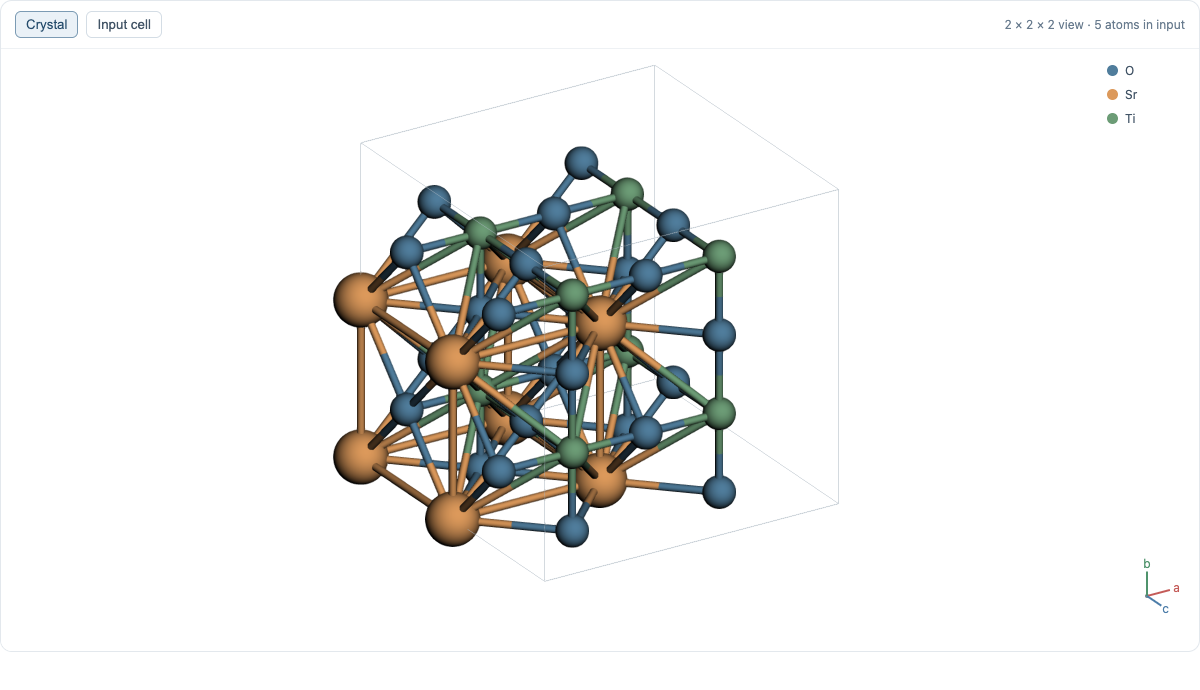
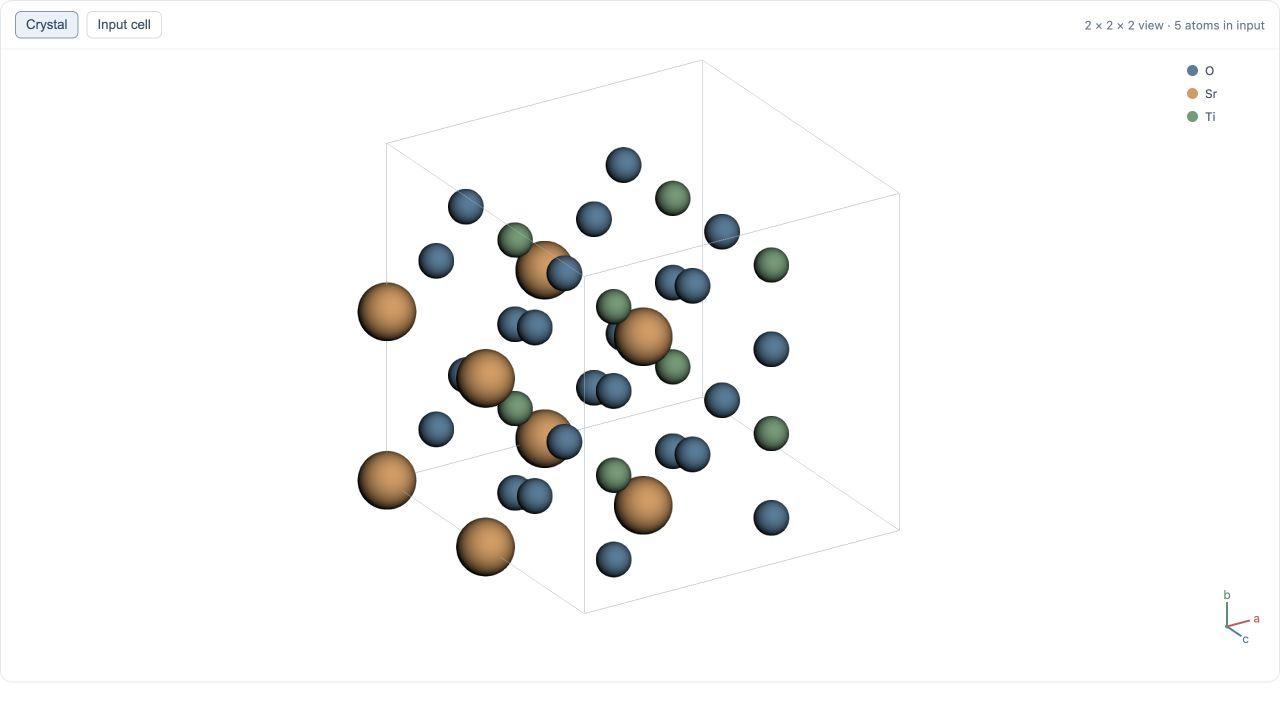
Remove bonds

diff --git a/src/vasp_slurm_agent/structure_view.py b/src/vasp_slurm_agent/structure_view.py
@@ -56,16 +56,6 @@ def structure_figure(structure: Structure):
         positions = np.asarray([site.coords for site in shown if site.specie.symbol == name])
         axis.scatter(*positions.T, s=100, color=color, edgecolor="white", linewidth=0.5,
                      label=name, depthshade=True)
-    # Lines follow near-neighbour distances, like the interactive ball-and-stick view.
-    from pymatgen.analysis.molecule_structure_comparator import CovalentRadius
-    from scipy.spatial import cKDTree
-
-    positions = shown.cart_coords
-    radii = [CovalentRadius.radius.get(site.specie.symbol, 1.3) for site in shown]
-    for i, j in cKDTree(positions).query_pairs(2.3 * max(radii)):
-        distance = np.linalg.norm(positions[i] - positions[j])
-        if 0.2 < distance <= 1.15 * (radii[i] + radii[j]):
-            axis.plot(*positions[[i, j]].T, color="#a8b4be", linewidth=1.5, alpha=0.7)
     bounds = np.concatenate([cell_edges(shown).reshape(-1, 3), shown.cart_coords])
     center = (bounds.min(axis=0) + bounds.max(axis=0)) / 2
     widths = np.maximum(np.ptp(bounds, axis=0) * 1.08, 0.1)
@@ -149,7 +139,7 @@ button.active{{background:#eaf1f7;border-color:#7c9bb4;color:#254c6c;}}
     viewer.removeAllModels(); viewer.removeAllShapes();
     viewer.addModel(models[index].poscar, "vasp");
     Object.keys(colors).forEach(function(element) {{
-      viewer.setStyle({{elem:element}}, {{sphere:{{scale:0.25,color:colors[element]}}, stick:{{radius:0.09,color:colors[element]}}}});
+      viewer.setStyle({{elem:element}}, {{sphere:{{scale:0.25,color:colors[element]}}}});
     }});
     models[index].edges.forEach(function(edge) {{
       viewer.addLine({{start:{{x:edge[0][0],y:edge[0][1],z:edge[0][2]}},end:{{x:edge[1][0],y:edge[1][1],z:edge[1][2]}},color:"#a8b4be",linewidth:1}});
